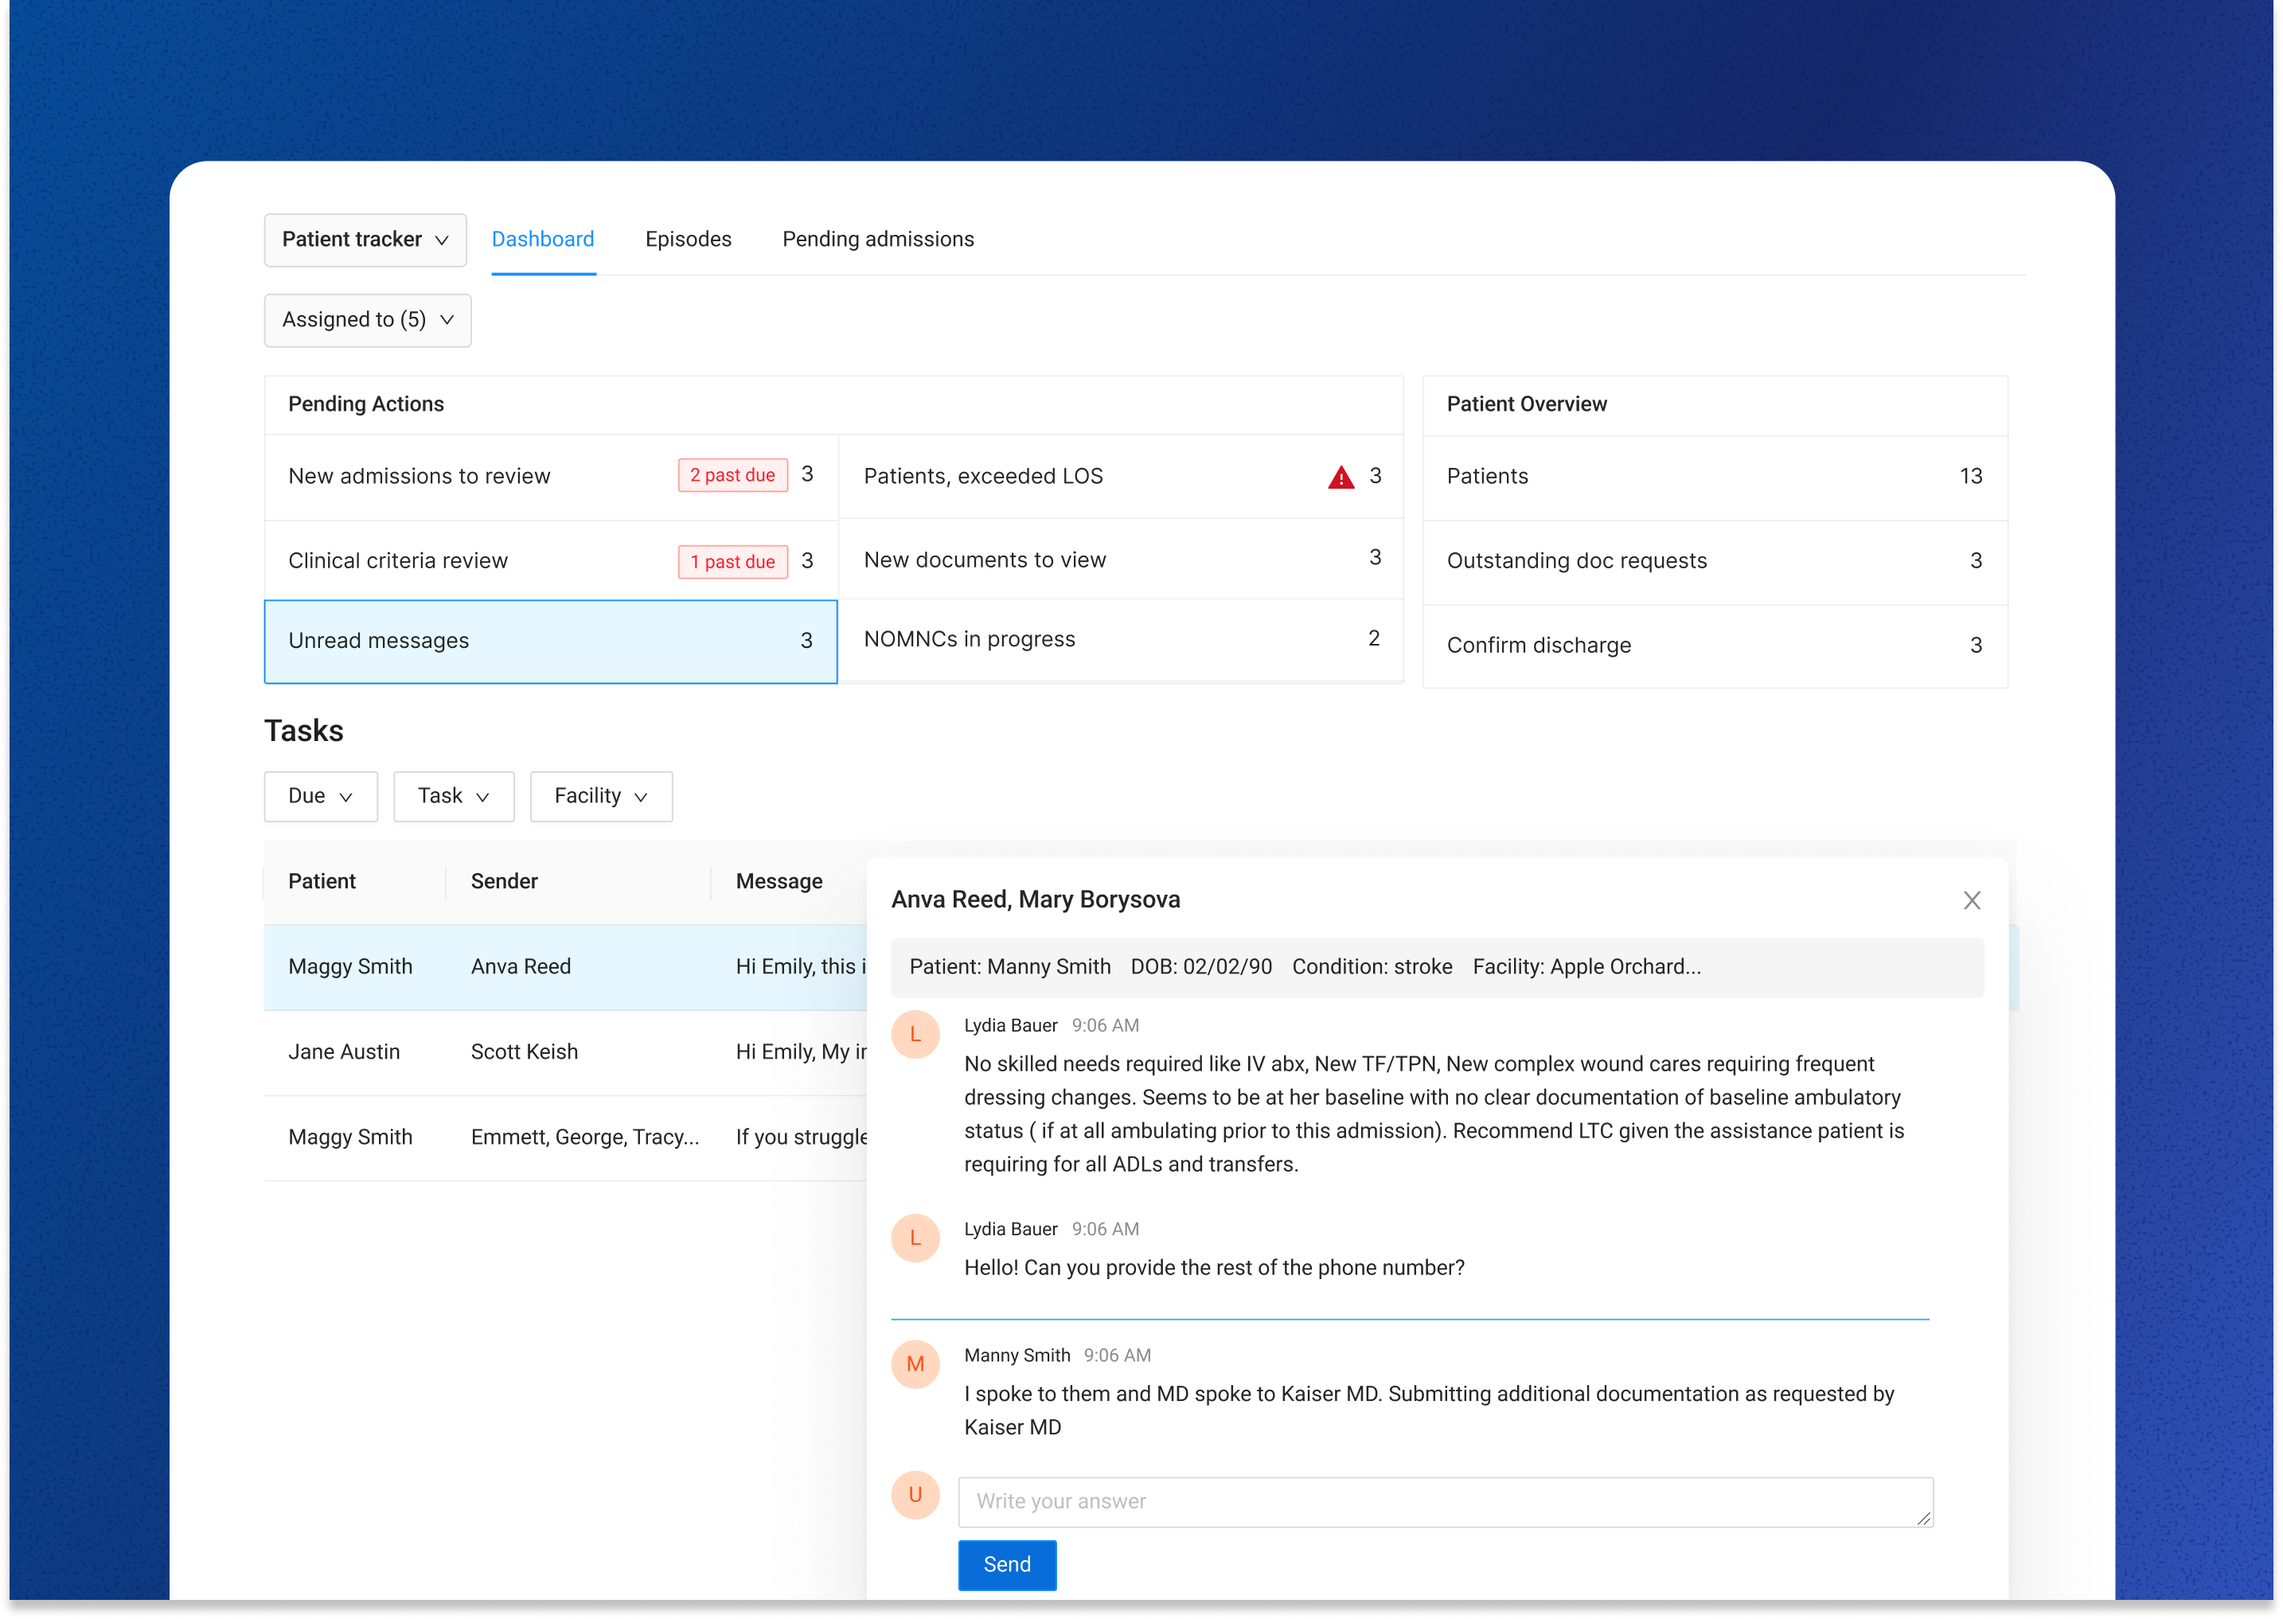
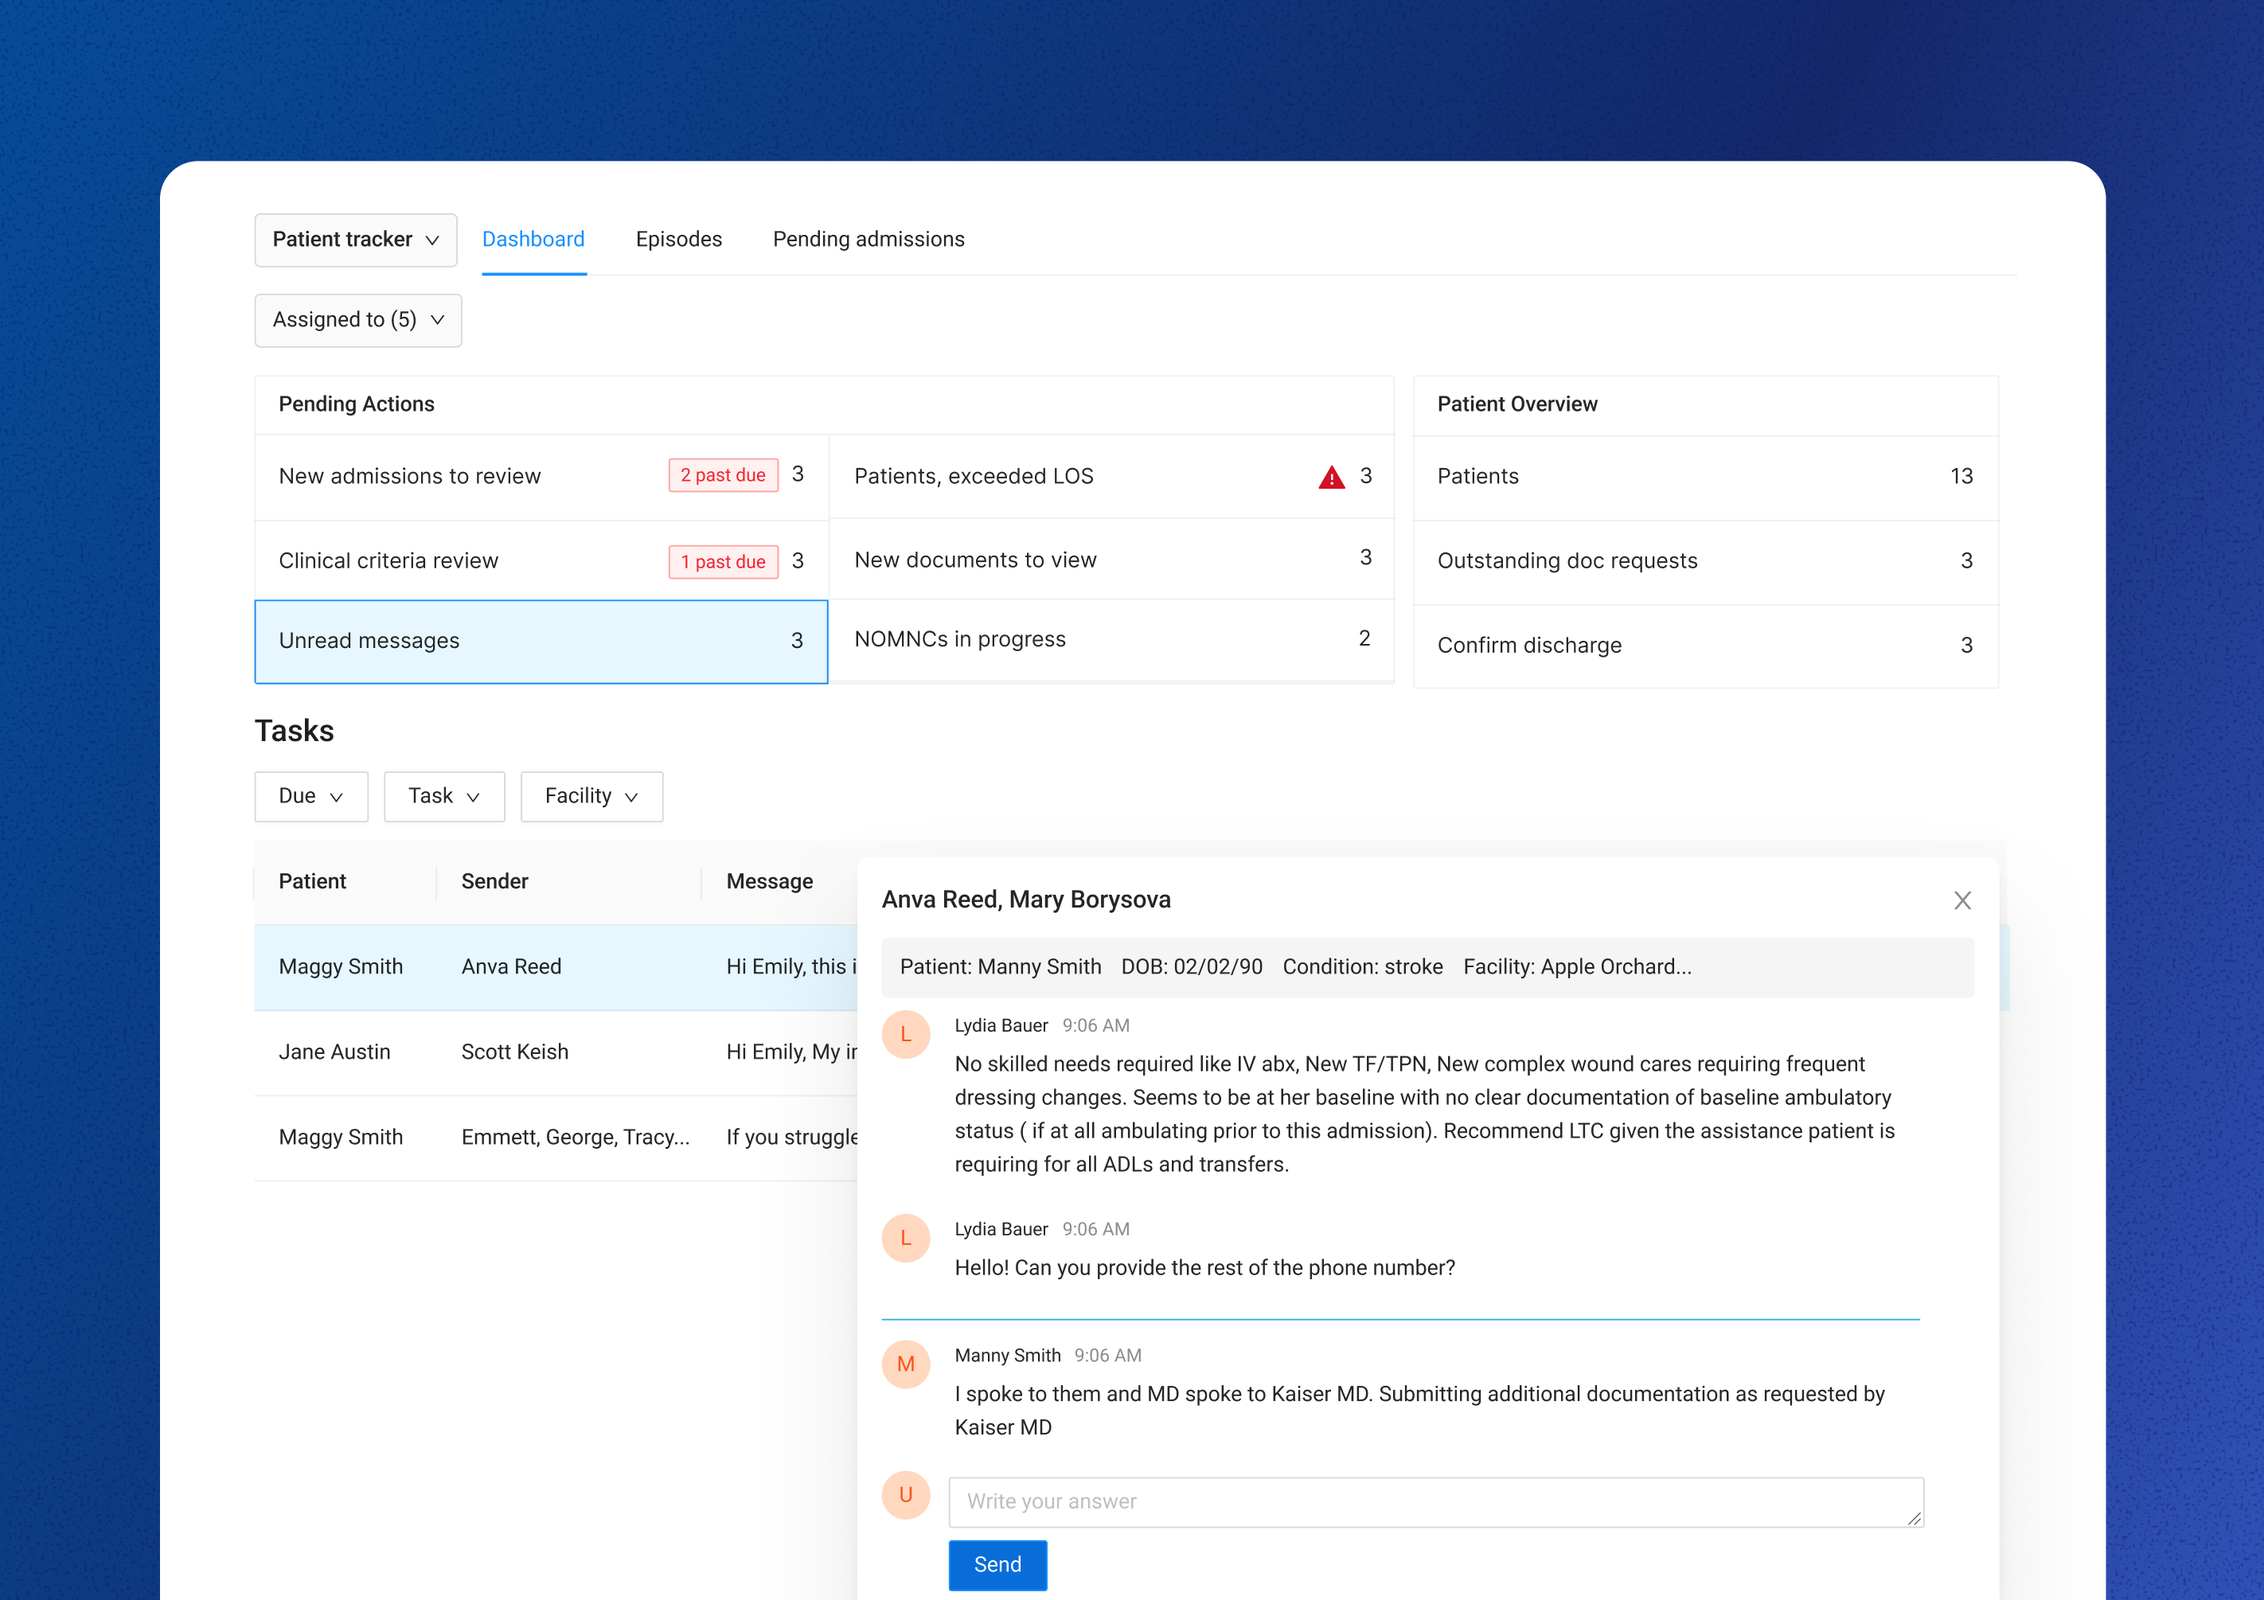
Calmer case study contents, sharp image badge, no baked-in shadows
- Contents list is always visible on wide screens as a plain list with
  a thin rail and a small accent square on the section in view; no
  panel, border or offset outline. Hidden below 1280px, where it would
  overlap the text.
- 'Expand' badge on images is now a sharp, solid dark label.
- Cropped the soft drop shadow baked into vq_cover.png and the three PAA
  screens (paa_11, paa-12, paa-13), so they sit sharp in their frames
  like the other images.

Claude-Session: https://claude.ai/code/session_01TgdQwsKCUrr7JSsuuo41uJ

diff --git a/components/story-contents.tsx b/components/story-contents.tsx
@@ -1,44 +1,24 @@
 "use client"
 
-import { useEffect, useLayoutEffect, useRef, useState } from "react"
+import { useEffect, useRef, useState } from "react"
 
 export type ContentsItem = { id: string; label: string }
 
 const EASE = "cubic-bezier(0.22, 1, 0.36, 1)"
-
-function Sparkle({ className = "" }: { className?: string }) {
-  return (
-    <svg viewBox="0 0 10 10" className={className} aria-hidden>
-      <path d="M5 0C5.55 3.4 6.6 4.45 10 5 6.6 5.55 5.55 6.6 5 10 4.45 6.6 3.4 5.55 0 5 3.4 4.45 4.45 3.4 5 0Z" />
-    </svg>
-  )
-}
+const ACCENT = "#B4532A" // same accent as the cursor and the hero squares
 
 /**
- * Sticky table of contents for story case studies.
- * Rests as a small pill on the left edge, opens into a bordered panel on
- * hover or keyboard focus, and a sparkle marks the section in view.
+ * Table of contents for story case studies.
+ * Always visible on wide screens as a plain list beside the content: a thin
+ * rail with a small accent square that slides to the section in view, whose
+ * label turns dark. No panel, no border.
  */
 export function StoryContents({ items }: { items: ContentsItem[] }) {
-  const [open, setOpen] = useState(false)
   const [active, setActive] = useState(items[0]?.id)
-  const [size, setSize] = useState({ w: 0, h: 0 })
-  const [marker, setMarker] = useState(0)
-  const contentRef = useRef<HTMLDivElement>(null)
+  const [marker, setMarker] = useState<number | null>(null)
   const buttonRefs = useRef<Record<string, HTMLButtonElement | null>>({})
 
-  // Measure the open panel once fonts settle
-  useLayoutEffect(() => {
-    const el = contentRef.current
-    if (!el) return
-    const measure = () => setSize({ w: el.scrollWidth, h: el.scrollHeight })
-    measure()
-    const ro = new ResizeObserver(measure)
-    ro.observe(el)
-    return () => ro.disconnect()
-  }, [])
-
-  // Track which section is in view: the last one whose top passed 35% of the viewport
+  // The section in view is the last one whose top has passed 35% of the viewport
   useEffect(() => {
     const onScroll = () => {
       const line = window.innerHeight * 0.35
@@ -58,106 +38,56 @@ export function StoryContents({ items }: { items: ContentsItem[] }) {
     }
   }, [items])
 
-  // Move the sparkle to the active item
+  // Move the marker to the active item
   useEffect(() => {
     const b = active ? buttonRefs.current[active] : null
     if (b) setMarker(b.offsetTop + b.offsetHeight / 2)
-  }, [active, size])
+  }, [active])
 
   const go = (id: string) => {
     document.getElementById(id)?.scrollIntoView({ behavior: "smooth", block: "start" })
   }
 
-  const w = open ? size.w + 2 : 8
-  const h = open ? size.h + 2 : 64
-
   return (
-    <div
-      className="fixed left-4 top-1/2 -translate-y-1/2 z-40 hidden lg:block"
-      onMouseEnter={() => setOpen(true)}
-      onMouseLeave={() => setOpen(false)}
-      onFocus={() => setOpen(true)}
-      onBlur={(e) => {
-        if (!e.currentTarget.contains(e.relatedTarget as Node)) setOpen(false)
-      }}
-    >
-      {/* Offset outline behind the open panel */}
-      <div
-        aria-hidden
-        className="absolute left-0 top-0 border border-foreground pointer-events-none"
-        style={{
-          width: w,
-          height: h,
-          opacity: open ? 1 : 0,
-          transform: open ? "translate(5px, 5px)" : "translate(0, 0)",
-          transition: `width .45s ${EASE}, height .45s ${EASE}, opacity .25s ease, transform .45s ${EASE} .05s`,
-        }}
-      />
-
-      {/* Pill that grows into the panel */}
-      <div
-        className="relative overflow-hidden"
-        style={{
-          width: w,
-          height: h,
-          borderRadius: open ? 0 : 4,
-          background: open ? "var(--background)" : "color-mix(in srgb, var(--foreground) 35%, transparent)",
-          border: open ? "1px solid var(--foreground)" : "0px solid transparent",
-          transition: `width .45s ${EASE}, height .45s ${EASE}, border-radius .3s ease, background-color .2s ease`,
-        }}
-      >
-        <div
-          ref={contentRef}
-          className="absolute left-0 top-0 w-max pl-2 pr-5 py-3"
-          style={{
-            opacity: open ? 1 : 0,
-            transition: open ? "opacity .25s ease .18s" : "opacity .1s ease",
-            pointerEvents: open ? "auto" : "none",
-          }}
-        >
-          <div className="relative flex">
-            {/* Rail + sparkle */}
-            <div className="relative w-[13px] shrink-0">
-              <div className="absolute inset-y-1 left-1/2 -translate-x-1/2 w-px bg-foreground/20" />
-              <div
-                className="absolute left-1/2 flex items-center justify-center w-[13px] h-[18px] bg-background"
-                style={{
-                  top: marker,
-                  transform: "translate(-50%, -50%)",
-                  transition: `top .5s ${EASE}`,
-                }}
-              >
-                <Sparkle className="w-[10px] h-[10px] fill-[#B4532A]" />
-              </div>
-            </div>
-
-            <nav aria-label="Case study sections" className="flex flex-col gap-0.5">
-              {items.map((it, i) => {
-                const isActive = it.id === active
-                return (
-                  <button
-                    key={it.id}
-                    ref={(el) => {
-                      buttonRefs.current[it.id] = el
-                    }}
-                    onClick={() => go(it.id)}
-                    tabIndex={0}
-                    aria-current={isActive ? "true" : undefined}
-                    className={`px-3 py-1.5 text-left text-[15px] leading-normal whitespace-nowrap cursor-pointer transition-[color,transform] duration-200 hover:translate-x-0.5 ${
-                      isActive ? "text-foreground" : "text-foreground/50 hover:text-foreground"
-                    }`}
-                    style={{
-                      transform: open ? "none" : "translateX(-6px)",
-                      transition: `color .15s ease, transform .4s ${EASE} ${open ? 0.12 + i * 0.03 : 0}s`,
-                    }}
-                  >
-                    {it.label}
-                  </button>
-                )
-              })}
-            </nav>
-          </div>
+    <div className="fixed left-6 2xl:left-10 top-1/2 -translate-y-1/2 z-40 hidden xl:block">
+      <div className="relative flex">
+        {/* Rail + marker */}
+        <div className="relative w-[9px] shrink-0">
+          <div className="absolute inset-y-1 left-1/2 -translate-x-1/2 w-px bg-foreground/15" />
+          {marker !== null && (
+            <span
+              aria-hidden
+              className="absolute left-1/2 block w-[7px] h-[7px]"
+              style={{
+                top: marker,
+                background: ACCENT,
+                transform: "translate(-50%, -50%)",
+                transition: `top .5s ${EASE}`,
+              }}
+            />
+          )}
         </div>
+
+        <nav aria-label="Case study sections" className="flex flex-col">
+          {items.map((it) => {
+            const isActive = it.id === active
+            return (
+              <button
+                key={it.id}
+                ref={(el) => {
+                  buttonRefs.current[it.id] = el
+                }}
+                onClick={() => go(it.id)}
+                aria-current={isActive ? "true" : undefined}
+                className={`pl-4 pr-2 py-1.5 text-left text-[14px] leading-normal whitespace-nowrap cursor-pointer transition-colors duration-200 ${
+                  isActive ? "text-foreground font-medium" : "text-muted-foreground hover:text-foreground"
+                }`}
+              >
+                {it.label}
+              </button>
+            )
+          })}
+        </nav>
       </div>
     </div>
   )

diff --git a/components/lightbox-image.tsx b/components/lightbox-image.tsx
@@ -51,7 +51,7 @@ export function LightboxImage({ src, alt, className, lightboxSrc, loading = "laz
           {...rest}
         />
         <div className="absolute bottom-3 right-3 opacity-0 group-hover:opacity-100 transition-opacity duration-200 pointer-events-none">
-          <div className="flex items-center gap-1.5 bg-black/50 backdrop-blur-sm text-white/90 rounded-full px-2.5 py-1.5 text-[11px] font-medium tracking-wide">
+          <div className="flex items-center gap-1.5 bg-[#1a1a1a] text-white px-2.5 py-1.5 text-[11px] font-medium tracking-wide">
             <Maximize2 className="w-3 h-3" />
             Expand
           </div>
